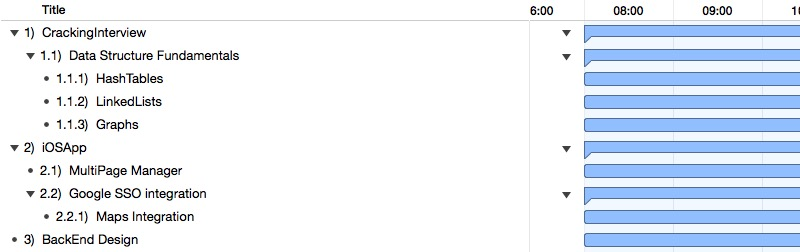
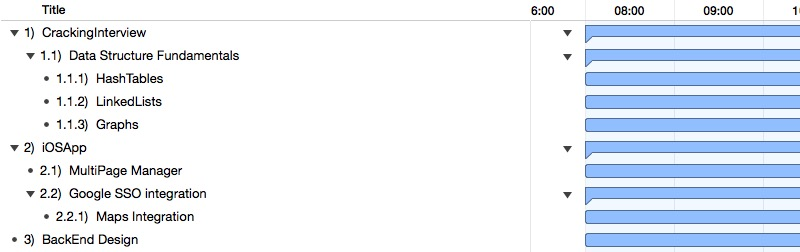
change of name

diff --git a/omni/gantt.html b/omni/gantt.html
@@ -3,7 +3,7 @@
 
 <html xmlns="http://www.w3.org/1999/xhtml">
 	<head>
-		<title>t: Gantt Chart</title>
+		<title>ProjectTimeLIne: Gantt Chart</title>
         <meta http-equiv="Content-Type" content="text/html; charset=utf-8" />
         <link rel="stylesheet" type="text/css" href="include/style.css">
 	</head>
@@ -27,11 +27,11 @@
         </div>
 	<div id="contentwrap">	
 		<div id="content" class="box">
-	<h1>t: Gantt Chart</h1>
+	<h1>ProjectTimeLIne: Gantt Chart</h1>
 		<div class="tablewrap"><table border="0" cellspacing="0" cellpadding="0">
 <tr>
-	<td><img src="include/gantt0,0.jpg?nocacheTag=632003563" border=0/></td>
-	<td><img src="include/gantt1,0.jpg?nocacheTag=795609393" border=0/></td>
+	<td><img src="include/gantt0,0.jpg?nocacheTag=668139764" border=0/></td>
+	<td><img src="include/gantt1,0.jpg?nocacheTag=137292892" border=0/></td>
 </tr>
 </table>
 </div>

diff --git a/omni/timeline.html b/omni/timeline.html
@@ -3,7 +3,7 @@
 
 <html xmlns="http://www.w3.org/1999/xhtml">
 	<head>
-		<title>t: Resource Timeline</title>
+		<title>ProjectTimeLIne: Resource Timeline</title>
         <meta http-equiv="Content-Type" content="text/html; charset=utf-8" />
         <link rel="stylesheet" type="text/css" href="include/style.css">
 	</head>
@@ -27,7 +27,7 @@
         </div>
 	<div id="contentwrap">	
 		<div id="content" class="box">
-	<h1>t: Timeline</h1>
+	<h1>ProjectTimeLIne: Timeline</h1>
 		<div class="tablewrap"><table border="0" cellspacing="0" cellpadding="0">
 <tr>
 	<td><img src="include/timeline0,0.jpg" border=0/></td>

diff --git a/omni/montecarlo.html b/omni/montecarlo.html
@@ -3,7 +3,7 @@
 
 <html xmlns="http://www.w3.org/1999/xhtml">
 	<head>
-		<title>t: Monte Carlo Simulation</title>
+		<title>ProjectTimeLIne: Monte Carlo Simulation</title>
         <meta http-equiv="Content-Type" content="text/html; charset=utf-8" />
         <link rel="stylesheet" type="text/css" href="include/style.css">
 	</head>
@@ -27,7 +27,7 @@
         </div>
 	<div id="contentwrap">	
 		<div id="content" class="box">
-	<h1>t: <span class="titlename">Monte Carlo Simulation</span></h1>
+	<h1>ProjectTimeLIne: <span class="titlename">Monte Carlo Simulation</span></h1>
                
 
 			</div>

diff --git a/omni/resource.html b/omni/resource.html
@@ -3,7 +3,7 @@
 
 <html xmlns="http://www.w3.org/1999/xhtml">
 <head>
-    <title>t: Resource Report</title>
+    <title>ProjectTimeLIne: Resource Report</title>
     <meta http-equiv="Content-Type" content="text/html; charset=utf-8" />
     <link rel="stylesheet" type="text/css" href="include/style.css" />
 </head>
@@ -41,7 +41,7 @@
 
     <div id="contentwrap">
         <div id="content" class="box">
-            <h1>t: Resource Timeline</h1>
+            <h1>ProjectTimeLIne: Resource Timeline</h1>
 
             <div class="tablewrap">
                <table class="basic" id="resource-report">

diff --git a/omni/eva.html b/omni/eva.html
@@ -3,7 +3,7 @@
 
 <html xmlns="http://www.w3.org/1999/xhtml">
 <head>
-    <title>t: Earned Value Analysis</title>
+    <title>ProjectTimeLIne: Earned Value Analysis</title>
     <meta http-equiv="Content-Type" content="text/html; charset=utf-8" />
     <link rel="stylesheet" type="text/css" href="include/style.css" />
 </head>
@@ -40,7 +40,7 @@
 
     <div id="contentwrap">
         <div id="content" class="box">
-            <h1>t: Earned Value Analysis</h1>
+            <h1>ProjectTimeLIne: Earned Value Analysis</h1>
 
             <div class="tablewrap">
             <table class="basic">

diff --git a/omni/task.html b/omni/task.html
@@ -3,7 +3,7 @@
 
 <html xmlns="http://www.w3.org/1999/xhtml">
 <head>
-    <title>t: Task Report</title>
+    <title>ProjectTimeLIne: Task Report</title>
     <meta http-equiv="Content-Type" content="text/html; charset=utf-8" />
     <link rel="stylesheet" type="text/css" href="include/style.css" />
 </head>
@@ -41,7 +41,7 @@
 
     <div id="contentwrap">
         <div id="content" class="box">
-            <h1>t: Task Report</h1>
+            <h1>ProjectTimeLIne: Task Report</h1>
 
             <div class="tablewrap">
            <table class="basic" id="task-report">

diff --git a/omni/index.html b/omni/index.html
@@ -3,7 +3,7 @@
 
 <html xmlns="http://www.w3.org/1999/xhtml">
 	<head>
-		<title>t: Overview</title>
+		<title>ProjectTimeLIne: Overview</title>
         <meta http-equiv="Content-Type" content="text/html; charset=utf-8" />
         <link rel="stylesheet" type="text/css" href="include/style.css">
 	</head>
@@ -41,7 +41,7 @@
 		
 	</div>
 	<div id="maincontent" class="box">
-		<h1>t</h1>
+		<h1>ProjectTimeLIne</h1>
 		
 		<h2>Resource summary</h2>
 		<div class="tablewrap">
